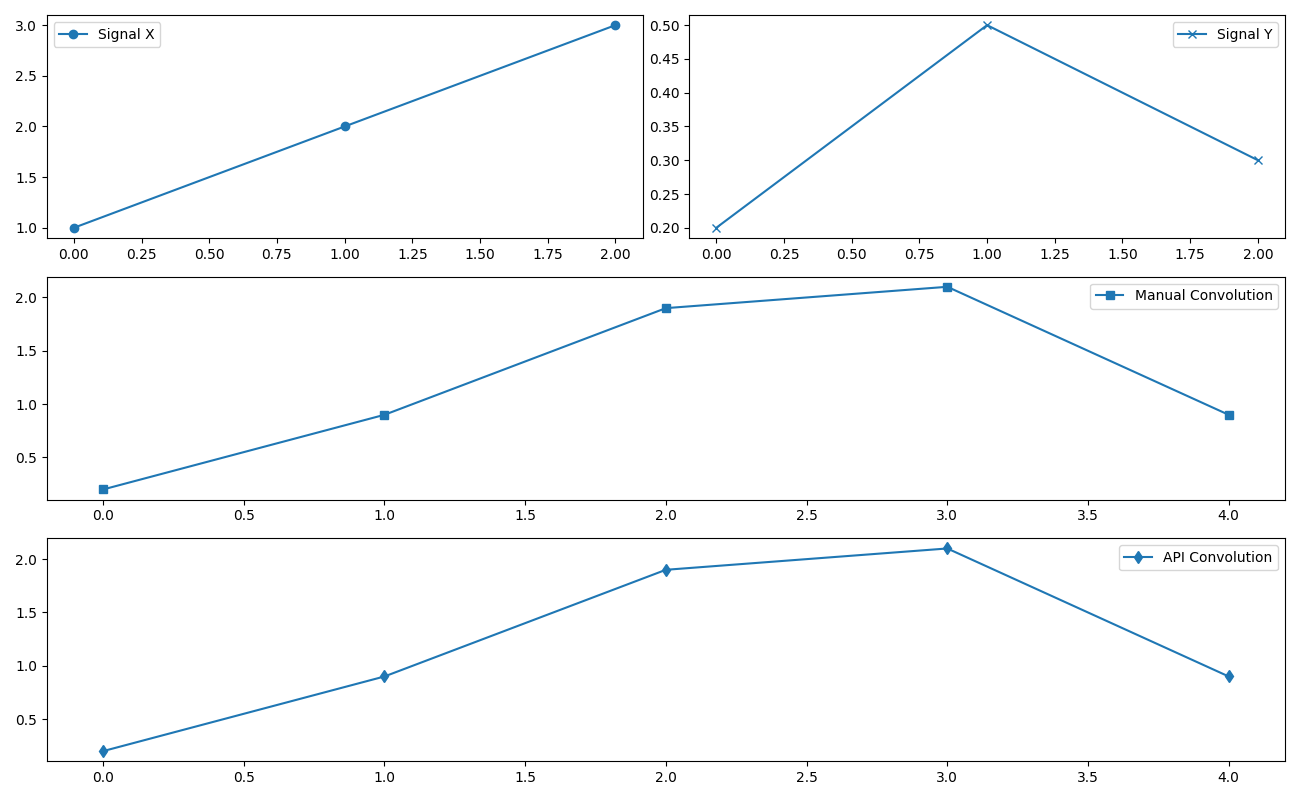
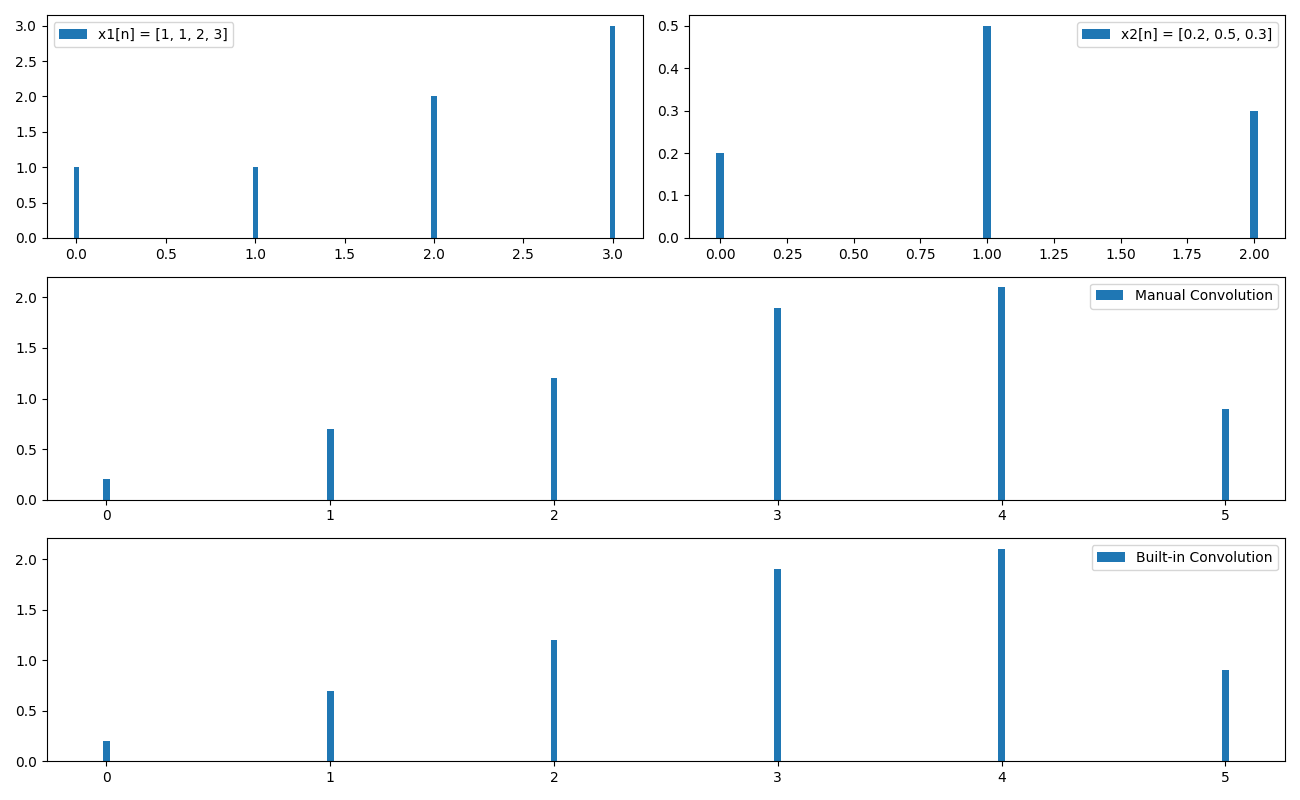
data pull pm2_5

diff --git a/SEM-2/ASP/LAB_EXPERIMENT_2/ConvolutionTest.py b/SEM-2/ASP/LAB_EXPERIMENT_2/ConvolutionTest.py
@@ -21,19 +21,37 @@ class ConvolutionTest:
         for i in range(x_len):
             for j in range(y_len):
                 result[i + j] += self.x[i] * self.y[j]
-                print(f"signal_manual_convolution: result[{i + j}] += {self.x[i]} * {self.x[j]} -> {result[i + j]}")
 
+        print(f"signal_manual_convolution:  -> {result }")
         return result
 
     def signal_api_convolution(self):
         numpy_result = np.convolve(self.x, self.y, 'full')
         return numpy_result
 
-    def signal_api_convolution(self):
+    def wave_signal_api_convolution(self):
         convolve_result = signal_convolve(self.x, self.y, 'full')
         return convolve_result
 
-    def plot_convolved_signal(self, manual_convolved_signal, api_convolved_signal, plot_file_name):
+    def plot_helper(self, signal_data, discrete, sub_plot, p_label, p_marker):
+        # Set bar width for thin bars
+        bar_width = 0.03
+
+        # Create a time range for plotting
+        time_signal = range(len(signal_data))
+
+        if discrete:
+            sub_plot.bar(time_signal, signal_data, width=bar_width, label=p_label)
+        else:
+            sub_plot.plot(time_signal, signal_data, label=p_label, marker=p_marker)
+
+        sub_plot.legend()
+        return sub_plot
+
+
+
+    def plot_convolved_signal(self, manual_convolved_signal, api_convolved_signal, plot_file_name,
+                              x_label, y_label, discrete=True):
 
         # Define the signals and convolution results
         signal_x = self.x
@@ -41,43 +59,35 @@ class ConvolutionTest:
         manual_convolution_1_of_x_and_y = manual_convolved_signal
         api_convolution_2_of_x_and_y = api_convolved_signal
 
-        # Create a time range for plotting
-        time_signal = range(len(signal_x))
-        time_convolution = range(len(manual_convolution_1_of_x_and_y))
-
         # Plotting
         figure = plt.figure(figsize=(13, 8))
         grid_spec = gridspec.GridSpec(3, 2, width_ratios=[1, 1])
 
         # Plot signal_x
         subplot_x = plt.subplot(grid_spec[0, 0])
-        subplot_x.plot(time_signal, signal_x, label='Signal X', marker='o')
-        subplot_x.legend()
+        subplot_x = self.plot_helper(signal_x, discrete, subplot_x, x_label, 'o')
 
         # Plot signal_y
         subplot_y = plt.subplot(grid_spec[0, 1])
-        subplot_y.plot(time_signal, signal_y, label='Signal Y', marker='x')
-        subplot_y.legend()
+        subplot_y = self.plot_helper(signal_y, discrete, subplot_y, y_label, 'x')
 
         # Plot manual convolution
         subplot_manual = plt.subplot(grid_spec[1, :])
-        subplot_manual.plot(time_convolution, manual_convolution_1_of_x_and_y, label='Manual Convolution', marker='s')
-        subplot_manual.legend()
+        subplot_manual = self.plot_helper(manual_convolution_1_of_x_and_y, discrete,
+                                          subplot_manual,'Manual Convolution', 's')
 
         # Plot manual convolution
         subplot_api = plt.subplot(grid_spec[2, :])
-        subplot_api.plot(time_convolution, api_convolution_2_of_x_and_y, label='API Convolution', marker='d')
-        subplot_api.legend()
+        subplot_api = self.plot_helper(api_convolution_2_of_x_and_y, discrete,
+                                       subplot_api, 'Built-in Convolution', 'd')
 
         plt.tight_layout()
         plt.savefig(plot_file_name)
         plt.close()
-        # Display the plot
-        #plt.show()
 
 
 # (a) x1[n] = [1, 1, 2, 3] and x2[n] = [0.2, 0.5, 0.3]
-x = [1, 2, 3]
+x = [1, 1, 2, 3]
 y = [0.2, 0.5, 0.3]
 
 convolutionTest_a = ConvolutionTest(x, y)
@@ -85,9 +95,11 @@ manual_result = convolutionTest_a.signal_manual_convolution()
 api_result = convolutionTest_a.signal_api_convolution()
 
 print(f'Manual Convolution : {manual_result}')
-print(f'API Convolution : {api_result.tolist()}')
+print(f'Built-in Convolution : {api_result.tolist()}')
 
-convolutionTest_a.plot_convolved_signal(manual_result, api_result, 'plot_q_a.png')
+convolutionTest_a.plot_convolved_signal(manual_result, api_result, 'plot_q_a.png',
+                                        'x1[n] = [1, 1, 2, 3]',
+                                        'x2[n] = [0.2, 0.5, 0.3]', True)
 
 # (b) x1(t) = sin(t) and x2(t) = cos(t)
 
@@ -98,9 +110,11 @@ y = np.cos(t)
 
 convolutionTest_b = ConvolutionTest(x, y)
 manual_result = convolutionTest_b.signal_manual_convolution()
-api_result = convolutionTest_b.signal_api_convolution()
+api_result = convolutionTest_b.wave_signal_api_convolution()
 
 print(f'Manual Convolution : {manual_result}')
-print(f'API Convolution : {api_result.tolist()}')
+print(f'Built-in Convolution : {api_result.tolist()}')
 
-convolutionTest_b.plot_convolved_signal(manual_result, api_result, 'plot_q_b.png')
+convolutionTest_b.plot_convolved_signal(manual_result, api_result, 'plot_q_b.png',
+                                        'x1(t) = sin(t)',
+                                        'x2(t) = cos(t)', False)

diff --git a/SEM-2/MINI_PROJECT/WORKSPACE/com/data-prep/URLToCSV.py b/SEM-2/MINI_PROJECT/WORKSPACE/com/data-prep/URLToCSV.py
@@ -1,0 +1,84 @@
+import requests
+import csv
+from datetime import datetime
+import csv
+import ijson
+from PropertiesConfig import PropertiesConfig as PC
+import pandas as pd
+
+class URLToCSV:
+    def __init__(self):
+        # URL of the JSON data
+        # Create an instance of PropertiesConfig
+        properties_config = PC("sensor-data.properties")
+        # Get properties as a dictionary
+        self.properties = properties_config.get_properties_config()
+
+        self.station_list_url = self.properties['station_list_url']
+        self.data_set_dir = self.properties['data_set_path']
+        # Generate a timestamp for the filename
+        timestamp = datetime.now().strftime(self.properties['time_format'])
+        current_date = datetime.now().strftime(self.properties['date_format'])
+        self.station_list_csv_file = f"{self.data_set_dir}/station_list_{current_date}.csv"
+        self.station_list_df = None
+        self.station_url_list = []
+
+    def dump_csv(self, url, file_path):
+        #file_path = self.station_list_csv_file
+
+        # Stream JSON from URL
+        response = requests.get(url, stream=True)
+
+        if response.status_code == 200:
+            # Open the CSV file for writing
+            with open(file_path, mode='w', newline='', encoding='utf-8') as file:
+                writer = None
+
+                # Stream parse the JSON data
+                for record in ijson.items(response.raw, 'item'):
+                    # Initialize CSV writer and write header once
+                    if writer is None:
+                        writer = csv.DictWriter(file, fieldnames=record.keys())
+                        writer.writeheader()
+
+                    # Write each record
+                    writer.writerow(record)
+
+            print(f"Data has been written to {file_path}")
+        else:
+            print(f"Failed to fetch data. HTTP Status Code: {response.status_code}")
+
+    def m1_dump_station_data_list(self):
+        self.dump_csv(self.station_list_url, self.station_list_csv_file)
+
+    def m2_read_station_list_in_df(self):
+        # Read the CSV file
+        self.station_list_df = pd.read_csv(self.station_list_csv_file)
+
+        # Display the first few rows of the dataframe
+        print(self.station_list_df.head())
+
+    def m3_build_station_url_list(self):
+        st_id_df = self.station_list_df['_id']
+
+        for st_id in st_id_df:
+            print(st_id)
+            self.station_url_list.append(f"{self.station_list_url}/{st_id}/sensorData?days=")
+
+    def m4_dump_station_pm2_5_data(self, days):
+        i=0
+        for st_id in self.station_url_list:
+            url_st_data = st_id + str(days)
+            filename = f'{self.data_set_dir}/{i}.csv'
+            print(filename)
+            self.dump_csv(url_st_data, filename)
+            i = i+1
+
+urlToCSV = URLToCSV()
+urlToCSV.m1_dump_station_data_list()
+urlToCSV.m2_read_station_list_in_df()
+
+urlToCSV.m3_build_station_url_list()
+urlToCSV.m4_dump_station_pm2_5_data(1)
+
+print(f"{urlToCSV.station_url_list}")

diff --git a/SEM-2/MINI_PROJECT/WORKSPACE/com/data-prep/PropertiesConfig.py b/SEM-2/MINI_PROJECT/WORKSPACE/com/data-prep/PropertiesConfig.py
@@ -1,0 +1,27 @@
+from jproperties import Properties
+
+class PropertiesConfig:
+    def __init__(self, properties_file_name):
+        configs = Properties()
+        with open(properties_file_name, 'rb') as read_prop:
+            configs.load(read_prop)
+        self.propertiesConfig = configs.items()
+        #print(type(self.propertiesConfig))
+
+    def get_properties_config(self):
+        properties_dict = {}
+        for item in self.propertiesConfig:
+            key, prop_tuple = item
+            properties_dict[key] = prop_tuple.data
+            #print(f"Key: {key}, Value: {prop_tuple.data}")
+        return properties_dict
+
+# Create an instance of PropertiesConfig
+propertiesConfig = PropertiesConfig("sensor-data.properties")
+# Get properties as a dictionary
+properties = propertiesConfig.get_properties_config()
+
+st = properties['station_list_url']
+pt = properties['data_set_path']
+print(f'station_list_url:{st}')
+print(f'data_set_path:{pt}')
